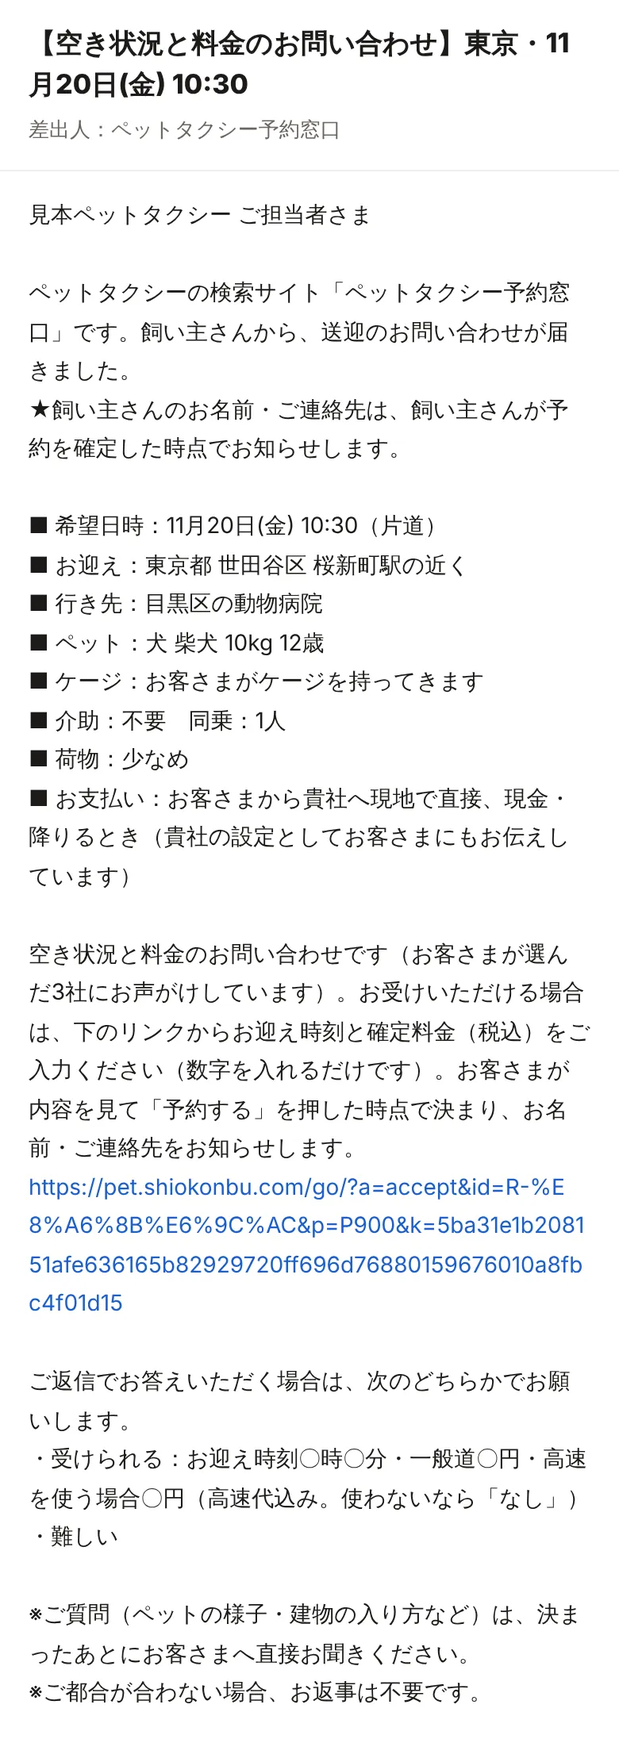
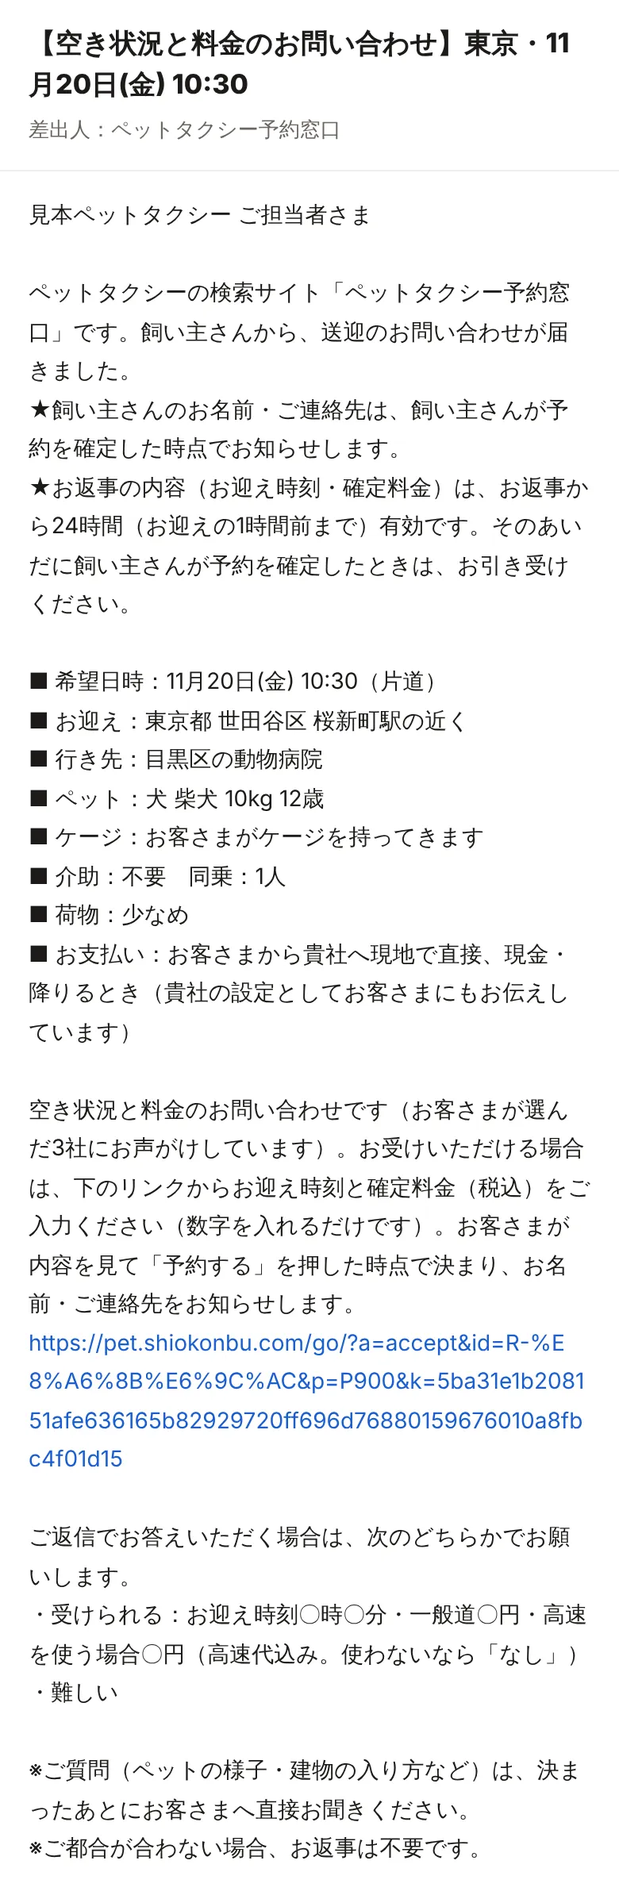
予約できる期限・キャンセルの決まり・消費者契約法に合わせた免責など、ツッコミどころをふさぐ (#121)
- 会社の返事で予約できるのは返事から24時間（お迎えの1時間前まで）。過ぎたら予約できず、もう一度問い合わせる案内
- 予約する前に会社のキャンセルの決まりを見せる（提携先シートに「キャンセル規定」の列）
- 利用規約：軽い過失でも直接・通常の損害は賠償する（全部免責は消費者契約法で無効になるため）、規約の変更は内容と日を前もって知らせる、未成年は保護者の同意
- 提携規約：返事の有効期限のあいだは引き受ける、キャンセル料の決まりを知らせる

Claude-Session: https://claude.ai/code/session_01Tf5d8bNcCb2wuZ9nGXDLSY

diff --git a/partner/terms/index.html b/partner/terms/index.html
@@ -39,7 +39,7 @@
 <main>
 <section class="area-hero"><div class="wrap"><h1>提携規約<small style="display:block;font-size:.95rem;color:var(--o-d)">ペットタクシー会社さま向け</small></h1><p class="lede">当サイトと提携してくださる会社さまとの約束です。お申し込みのあと、この規約をメールでお送りし、同意のお返事をいただいてから提携が始まります。</p></div></section>
 <section><div class="wrap prose terms">
-<h2>第1条（この規約について）</h2><p>この規約は、ペットタクシー予約窓口（以下「当サイト」）と、当サイトと提携してペットの送迎を行う事業者（以下「提携事業者」）との間の約束を定めるものです。</p><p>この規約で使うことばの意味は、次のとおりです。</p><ul><li>「飼い主さん」：当サイトを使ってペットの送迎を問い合わせる方</li><li>「問い合わせ」：飼い主さんが選んだ提携事業者へ、当サイトが空き状況と料金をおたずねするメール</li><li>「お返事」：提携事業者が、お迎え時刻と確定料金を当サイトの画面に入力して送ること</li><li>「予約の確定」：飼い主さんがお返事を見て「この内容で予約する」を押し、当サイトから確定のメールが送られたこと</li><li>「確定料金」：お返事で提携事業者が示した、税込の運賃（高速代・駐車場代などの実費を除きます）</li></ul><h2>第2条（提携の成立）</h2><p>提携を希望する事業者は、当サイトの提携のお申し込みフォームから申し込みます。</p><p>当サイトは、お申し込みの内容と公式サイトなどを確認し、この規約をメールでお送りします。事業者がメールでこの規約に同意すると返信した時点で、提携が成立します。</p><p>当サイトは、確認の結果、提携をお断りすることがあります。その理由はお伝えしないことがあります。</p><h2>第3条（提携事業者のお約束）</h2><p>提携事業者は、次のことをお約束いただきます。</p><ul><li>ペットの送迎に必要な許可・届出・登録（貨物軽自動車運送事業の届出、一般乗用旅客自動車運送事業の許可、第一種動物取扱業の登録など、事業のやり方に応じて必要なもの）を受けていること</li><li>飼い主さんが同乗するときは、法令にしたがうこと。旅客の運送の許可を受けていない場合は、飼い主さんは付き添いとして同乗し、飼い主さんの運賃は受け取らないこと</li><li>送迎中の事故に備えて、対人・対物の保険に入っていること</li><li>道路交通法などの法令と、ペットの安全に気を配って送迎すること</li></ul><p>許可などの状況が変わったときは、すぐに当サイトにお知らせください。</p><h2>第4条（掲載する情報）</h2><p>当サイトは、提携事業者の名前、対応エリア、料金表、営業時間、お支払い方法など、提携事業者からいただいた情報や公式サイトに公開されている情報をもとに、候補として掲載します。</p><p>当サイトは、掲載した料金表から料金の目安を計算し、「確定料金ではありません」と添えて表示します。目安の計算のしかた、候補の並び順、しぼり込みの条件は当サイトが決めます。手数料や掲載料によって並び順を変えることはありません。</p><p>提携事業者は、料金・エリア・営業時間などが変わるときは、事前に当サイトにお知らせください。掲載の内容に誤りを見つけたときも、お知らせください。当サイトはすぐに直します。</p><h2>第5条（問い合わせとお返事）</h2><p>当サイトは、飼い主さんが選んだ提携事業者に、日時・お迎えの場所・行き先・同乗する人数・ペットの情報・料金の目安などをメールでお届けします。この段階では、飼い主さんのお名前と連絡先はお伝えしません。</p><p>提携事業者は、受けられるときは、メールのリンク先の画面でお迎え時刻と確定料金を入力してお返事ください。受けられないときは、お返事はいりません。</p><p>お返事した確定料金は、飼い主さんが予約を決めるための大切な情報です。当日の待ち時間の延長や行き先の変更など、飼い主さんの依頼で内容が変わった場合と、実費を除き、確定料金より高い金額を受け取らないでください。</p><h2>第6条（予約の確定と送迎）</h2><p>飼い主さんが予約を確定すると、当サイトは提携事業者に飼い主さんのお名前と連絡先をメールでお知らせします。ほかの提携事業者には「締め切り」をお知らせします。</p><p>運送の契約は、飼い主さんと提携事業者の間で結ばれます。当サイトは運送の契約の当事者ではありません。打ち合わせ、送迎、運賃のお受け取り、キャンセルの扱いは、提携事業者の約款と規定にしたがって、提携事業者と飼い主さんの間で行ってください。</p><p>確定した予約を提携事業者の都合で取り消すときは、できるだけ早く飼い主さんと当サイトにお知らせください。</p><h2>第7条（飼い主さんの個人情報）</h2><p>提携事業者は、当サイトからお知らせした飼い主さんの個人情報を、その送迎のためだけに使い、法令にしたがって大切に管理してください。</p><p>飼い主さんの同意なく、宣伝のメールを送ったり、ほかの人に渡したりしないでください。</p><p>漏えいなどが起きたとき、または起きたおそれがあるときは、すぐに当サイトにお知らせください。</p><h2>第8条（手数料）</h2><p>提携事業者は、当サイトで予約が確定し、実際に送迎をした1件ごとに、確定料金に、当サイトが提携の成立のときにメールでお知らせする率をかけた金額を、手数料としてお支払いください（消費税を含みます。円未満は切り捨てます）。予約が確定したあとに飼い主さんの依頼で金額が変わったときは、実際に受け取った運賃（実費を除きます）をもとにします。</p><p>次の場合、手数料はいただきません。</p><ul><li>問い合わせを受け取っただけ、またはお返事しただけのとき（選ばれなかったときを含みます）</li><li>キャンセルなどで送迎をしなかったとき。キャンセル料を受け取った場合も、キャンセル料に手数料はかけません</li><li>登録料・月額料金・掲載料（いただきません）</li></ul><p>当サイトは、毎月末で締めて、その月に確定した予約の一覧と手数料の金額を翌月10日ごろまでにメールでお送りします。提携事業者は、送迎しなかった予約や金額の違いがあれば、そのメールへの返信でお知らせください。</p><p>手数料は、翌月末までに当サイトが指定する口座にお振り込みください。振込手数料は提携事業者のご負担とします。</p><p>1か月の手数料の合計が1,000円に満たないときは、その月はご請求せず、翌月以降の手数料とまとめてご請求します。</p><p>手数料をいただき始める日は、当サイトから少なくとも30日前にメールでお知らせします。その日より前に確定した予約には、手数料はかかりません。</p><p>お支払いが期日より遅れたときは、期日の翌日からお支払いの日まで、年14.6%の割合による遅延損害金をあわせてお支払いいただきます。</p><h2>第9条（送迎の報告と確認）</h2><p>提携事業者は、月末の一覧への返信で、送迎をしたか、キャンセルになったか、受け取った金額を、正確に報告しなければなりません。一覧を送った月の末日までに返信がないときは、一覧のとおり送迎したものとみなします。</p><p>当サイトは、送迎のあとに、飼い主さんに直接、送迎があったかどうかを確かめます。また、必要なときは、提携事業者に、運転日報・領収書の控え・キャンセルの連絡の記録など、送迎についての記録を出していただくよう求めることができます。提携事業者は、これに応じなければなりません。</p><p>飼い主さんの答えと提携事業者の報告が違うときは、提携事業者が記録によって送迎しなかったことを示さない限り、送迎したものとして手数料を計算します。</p><p>送迎したのにキャンセルと報告するなど事実と違う報告をしたとき、報告をしなかったとき、または第10条に反したときは、提携事業者は、本来の手数料に加えて、それと同じ額を違約金としてお支払いいただきます。この場合、当サイトは予告なく提携を終えることができ、これを超える損害があるときは、その賠償も求めることができます。</p><h2>第10条（当サイトを通さない取引）</h2><p>当サイトの問い合わせで届いた依頼について、手数料を避ける目的で、予約の確定の前に飼い主さんへ直接連絡したり、当サイトを通さずに予約するよう誘ったりしないでください。</p><p>確定した予約が送迎されないまま（キャンセルと報告された場合を含みます）、確定の日から90日以内に、提携事業者がその予約に代えて同じ飼い主さんのペットを直接送迎したときは、その予約の送迎をしたものとして手数料を計算します。日時や行き先を変えた場合も同じです。</p><p>予約が確定して送迎したあと、飼い主さんがあらためて提携事業者に直接依頼した送迎には、手数料はかかりません。</p><h2>第11条（禁止事項）</h2><ul><li>事実と違う料金・エリア・許可などの情報を伝えること</li><li>飼い主さんやペットへの迷惑行為、不当に高い料金の請求</li><li>当サイトや他の提携事業者の信用を傷つけること</li><li>当サイトの仕組みに不正にアクセスすること、ほかの人に成りすましてお返事すること</li><li>当サイトの許可なく、当サイトの名前を広告などに使ったり、当サイトの公認・推薦を受けているように表示したりすること</li><li>法令や公序良俗に反すること</li></ul><h2>第12条（掲載の停止と提携の終了）</h2><p>提携事業者は、メールでお知らせいただければ、いつでも掲載の一時停止や提携の終了ができます。違約金はありません。</p><p>当サイトは、提携事業者がこの規約に反したとき、飼い主さんからの苦情が続くとき、許可などが確認できなくなったときは、掲載を止めたり、提携を終えたりすることがあります。</p><p>当サイトは、30日前までにメールでお知らせすれば、理由を問わず提携を終えたり、本サービスを終えたりすることができます。この提携は独占ではなく、当サイトはほかの事業者とも提携します。</p><p>掲載の停止や提携の終了の前に確定した予約は、最後まで送迎してください。その予約の手数料は、第8条のとおりお支払いください。</p><h2>第13条（責任の範囲と補償）</h2><p>送迎中の事故、ケガ、ペットの体調の変化、遅れ、物の破損などは、提携事業者の責任と保険で対応してください。</p><p>提携事業者の送迎、法令（許可・届出を含みます）やこの規約への違反がもとで、当サイトが飼い主さんやほかの人から請求や苦情を受けたときは、提携事業者は、自分の責任と費用でこれを解決し、当サイトに生じた損害（弁護士費用を含みます）を補償してください。</p><p>通信の障害、メールの不達や迷惑メールへの振り分けなどにより、問い合わせやお知らせが遅れたり届かなかったりすることがあります。当サイトは、問い合わせの件数や予約の確定をお約束するものではありません。</p><p>当サイトが表示する料金の目安は、提携事業者の料金表などをもとにした概算です。料金の目安と確定料金が違うことについて、当サイトは責任を負いません。</p><p>当サイトの故意または重大な過失による場合を除き、当サイトが提携事業者に負う責任は、その損害が生じた月の前12か月間に当サイトが提携事業者から受け取った手数料の合計額までとします。</p><h2>第14条（秘密の保持）</h2><p>当サイトと提携事業者は、提携を通じて知った相手の営業上の情報（公開されているものを除きます）を、相手の同意なくほかの人に伝えません。提携が終わったあとも同じです。</p><h2>第15条（反社会的勢力の排除）</h2><p>当サイトと提携事業者は、自分が暴力団などの反社会的勢力ではなく、これと関わりがないことをお約束します。これに反したときは、相手は予告なく提携を終えることができます。</p><h2>第16条（規約の変更）</h2><p>当サイトは、この規約を変えることがあります。手数料など大事な内容を変えるときは、変更の日の30日前までに提携事業者にメールでお知らせします。お知らせしたあとも提携を続けた場合は、変更後の規約に同意いただいたものとします。</p><h2>第17条（準拠法・裁判管轄）</h2><p>この規約は日本の法律にしたがって解釈します。提携について争いが生じた場合は、運営者の住所地を管轄する地方裁判所または簡易裁判所を、第一審の専属的合意管轄裁判所とします。</p>
+<h2>第1条（この規約について）</h2><p>この規約は、ペットタクシー予約窓口（以下「当サイト」）と、当サイトと提携してペットの送迎を行う事業者（以下「提携事業者」）との間の約束を定めるものです。</p><p>この規約で使うことばの意味は、次のとおりです。</p><ul><li>「飼い主さん」：当サイトを使ってペットの送迎を問い合わせる方</li><li>「問い合わせ」：飼い主さんが選んだ提携事業者へ、当サイトが空き状況と料金をおたずねするメール</li><li>「お返事」：提携事業者が、お迎え時刻と確定料金を当サイトの画面に入力して送ること</li><li>「予約の確定」：飼い主さんがお返事を見て「この内容で予約する」を押し、当サイトから確定のメールが送られたこと</li><li>「確定料金」：お返事で提携事業者が示した、税込の運賃（高速代・駐車場代などの実費を除きます）</li></ul><h2>第2条（提携の成立）</h2><p>提携を希望する事業者は、当サイトの提携のお申し込みフォームから申し込みます。</p><p>当サイトは、お申し込みの内容と公式サイトなどを確認し、この規約をメールでお送りします。事業者がメールでこの規約に同意すると返信した時点で、提携が成立します。</p><p>当サイトは、確認の結果、提携をお断りすることがあります。その理由はお伝えしないことがあります。</p><h2>第3条（提携事業者のお約束）</h2><p>提携事業者は、次のことをお約束いただきます。</p><ul><li>ペットの送迎に必要な許可・届出・登録（貨物軽自動車運送事業の届出、一般乗用旅客自動車運送事業の許可、第一種動物取扱業の登録など、事業のやり方に応じて必要なもの）を受けていること</li><li>飼い主さんが同乗するときは、法令にしたがうこと。旅客の運送の許可を受けていない場合は、飼い主さんは付き添いとして同乗し、飼い主さんの運賃は受け取らないこと</li><li>送迎中の事故に備えて、対人・対物の保険に入っていること</li><li>道路交通法などの法令と、ペットの安全に気を配って送迎すること</li></ul><p>許可などの状況が変わったときは、すぐに当サイトにお知らせください。</p><h2>第4条（掲載する情報）</h2><p>当サイトは、提携事業者の名前、対応エリア、料金表、営業時間、お支払い方法など、提携事業者からいただいた情報や公式サイトに公開されている情報をもとに、候補として掲載します。</p><p>当サイトは、掲載した料金表から料金の目安を計算し、「確定料金ではありません」と添えて表示します。目安の計算のしかた、候補の並び順、しぼり込みの条件は当サイトが決めます。手数料や掲載料によって並び順を変えることはありません。</p><p>提携事業者は、料金・エリア・営業時間などが変わるときは、事前に当サイトにお知らせください。掲載の内容に誤りを見つけたときも、お知らせください。当サイトはすぐに直します。</p><h2>第5条（問い合わせとお返事）</h2><p>当サイトは、飼い主さんが選んだ提携事業者に、日時・お迎えの場所・行き先・同乗する人数・ペットの情報・料金の目安などをメールでお届けします。この段階では、飼い主さんのお名前と連絡先はお伝えしません。</p><p>提携事業者は、受けられるときは、メールのリンク先の画面でお迎え時刻と確定料金を入力してお返事ください。受けられないときは、お返事はいりません。</p><p>お返事した確定料金は、飼い主さんが予約を決めるための大切な情報です。当日の待ち時間の延長や行き先の変更など、飼い主さんの依頼で内容が変わった場合と、実費を除き、確定料金より高い金額を受け取らないでください。</p><p>お返事の内容（お迎え時刻と確定料金）は、お返事から24時間（お迎えの1時間前を過ぎるときはその時点）まで有効です。そのあいだに飼い主さんが予約を確定したときは、お引き受けください。受けられなくなったときは、すぐに当サイトにお知らせください。</p><p>キャンセル料などの決まりがあるときは、お申し込みのときかお返事の一言でお知らせください。当サイトは、予約する前の飼い主さんにお見せします。</p><h2>第6条（予約の確定と送迎）</h2><p>飼い主さんが予約を確定すると、当サイトは提携事業者に飼い主さんのお名前と連絡先をメールでお知らせします。ほかの提携事業者には「締め切り」をお知らせします。</p><p>運送の契約は、飼い主さんと提携事業者の間で結ばれます。当サイトは運送の契約の当事者ではありません。打ち合わせ、送迎、運賃のお受け取り、キャンセルの扱いは、提携事業者の約款と規定にしたがって、提携事業者と飼い主さんの間で行ってください。</p><p>確定した予約を提携事業者の都合で取り消すときは、できるだけ早く飼い主さんと当サイトにお知らせください。</p><h2>第7条（飼い主さんの個人情報）</h2><p>提携事業者は、当サイトからお知らせした飼い主さんの個人情報を、その送迎のためだけに使い、法令にしたがって大切に管理してください。</p><p>飼い主さんの同意なく、宣伝のメールを送ったり、ほかの人に渡したりしないでください。</p><p>漏えいなどが起きたとき、または起きたおそれがあるときは、すぐに当サイトにお知らせください。</p><h2>第8条（手数料）</h2><p>提携事業者は、当サイトで予約が確定し、実際に送迎をした1件ごとに、確定料金に、当サイトが提携の成立のときにメールでお知らせする率をかけた金額を、手数料としてお支払いください（消費税を含みます。円未満は切り捨てます）。予約が確定したあとに飼い主さんの依頼で金額が変わったときは、実際に受け取った運賃（実費を除きます）をもとにします。</p><p>次の場合、手数料はいただきません。</p><ul><li>問い合わせを受け取っただけ、またはお返事しただけのとき（選ばれなかったときを含みます）</li><li>キャンセルなどで送迎をしなかったとき。キャンセル料を受け取った場合も、キャンセル料に手数料はかけません</li><li>登録料・月額料金・掲載料（いただきません）</li></ul><p>当サイトは、毎月末で締めて、その月に確定した予約の一覧と手数料の金額を翌月10日ごろまでにメールでお送りします。提携事業者は、送迎しなかった予約や金額の違いがあれば、そのメールへの返信でお知らせください。</p><p>手数料は、翌月末までに当サイトが指定する口座にお振り込みください。振込手数料は提携事業者のご負担とします。</p><p>1か月の手数料の合計が1,000円に満たないときは、その月はご請求せず、翌月以降の手数料とまとめてご請求します。</p><p>手数料をいただき始める日は、当サイトから少なくとも30日前にメールでお知らせします。その日より前に確定した予約には、手数料はかかりません。</p><p>お支払いが期日より遅れたときは、期日の翌日からお支払いの日まで、年14.6%の割合による遅延損害金をあわせてお支払いいただきます。</p><h2>第9条（送迎の報告と確認）</h2><p>提携事業者は、月末の一覧への返信で、送迎をしたか、キャンセルになったか、受け取った金額を、正確に報告しなければなりません。一覧を送った月の末日までに返信がないときは、一覧のとおり送迎したものとみなします。</p><p>当サイトは、送迎のあとに、飼い主さんに直接、送迎があったかどうかを確かめます。また、必要なときは、提携事業者に、運転日報・領収書の控え・キャンセルの連絡の記録など、送迎についての記録を出していただくよう求めることができます。提携事業者は、これに応じなければなりません。</p><p>飼い主さんの答えと提携事業者の報告が違うときは、提携事業者が記録によって送迎しなかったことを示さない限り、送迎したものとして手数料を計算します。</p><p>送迎したのにキャンセルと報告するなど事実と違う報告をしたとき、報告をしなかったとき、または第10条に反したときは、提携事業者は、本来の手数料に加えて、それと同じ額を違約金としてお支払いいただきます。この場合、当サイトは予告なく提携を終えることができ、これを超える損害があるときは、その賠償も求めることができます。</p><h2>第10条（当サイトを通さない取引）</h2><p>当サイトの問い合わせで届いた依頼について、手数料を避ける目的で、予約の確定の前に飼い主さんへ直接連絡したり、当サイトを通さずに予約するよう誘ったりしないでください。</p><p>確定した予約が送迎されないまま（キャンセルと報告された場合を含みます）、確定の日から90日以内に、提携事業者がその予約に代えて同じ飼い主さんのペットを直接送迎したときは、その予約の送迎をしたものとして手数料を計算します。日時や行き先を変えた場合も同じです。</p><p>予約が確定して送迎したあと、飼い主さんがあらためて提携事業者に直接依頼した送迎には、手数料はかかりません。</p><h2>第11条（禁止事項）</h2><ul><li>事実と違う料金・エリア・許可などの情報を伝えること</li><li>飼い主さんやペットへの迷惑行為、不当に高い料金の請求</li><li>当サイトや他の提携事業者の信用を傷つけること</li><li>当サイトの仕組みに不正にアクセスすること、ほかの人に成りすましてお返事すること</li><li>当サイトの許可なく、当サイトの名前を広告などに使ったり、当サイトの公認・推薦を受けているように表示したりすること</li><li>法令や公序良俗に反すること</li></ul><h2>第12条（掲載の停止と提携の終了）</h2><p>提携事業者は、メールでお知らせいただければ、いつでも掲載の一時停止や提携の終了ができます。違約金はありません。</p><p>当サイトは、提携事業者がこの規約に反したとき、飼い主さんからの苦情が続くとき、許可などが確認できなくなったときは、掲載を止めたり、提携を終えたりすることがあります。</p><p>当サイトは、30日前までにメールでお知らせすれば、理由を問わず提携を終えたり、本サービスを終えたりすることができます。この提携は独占ではなく、当サイトはほかの事業者とも提携します。</p><p>掲載の停止や提携の終了の前に確定した予約は、最後まで送迎してください。その予約の手数料は、第8条のとおりお支払いください。</p><h2>第13条（責任の範囲と補償）</h2><p>送迎中の事故、ケガ、ペットの体調の変化、遅れ、物の破損などは、提携事業者の責任と保険で対応してください。</p><p>提携事業者の送迎、法令（許可・届出を含みます）やこの規約への違反がもとで、当サイトが飼い主さんやほかの人から請求や苦情を受けたときは、提携事業者は、自分の責任と費用でこれを解決し、当サイトに生じた損害（弁護士費用を含みます）を補償してください。</p><p>通信の障害、メールの不達や迷惑メールへの振り分けなどにより、問い合わせやお知らせが遅れたり届かなかったりすることがあります。当サイトは、問い合わせの件数や予約の確定をお約束するものではありません。</p><p>当サイトが表示する料金の目安は、提携事業者の料金表などをもとにした概算です。料金の目安と確定料金が違うことについて、当サイトは責任を負いません。</p><p>当サイトの故意または重大な過失による場合を除き、当サイトが提携事業者に負う責任は、その損害が生じた月の前12か月間に当サイトが提携事業者から受け取った手数料の合計額までとします。</p><h2>第14条（秘密の保持）</h2><p>当サイトと提携事業者は、提携を通じて知った相手の営業上の情報（公開されているものを除きます）を、相手の同意なくほかの人に伝えません。提携が終わったあとも同じです。</p><h2>第15条（反社会的勢力の排除）</h2><p>当サイトと提携事業者は、自分が暴力団などの反社会的勢力ではなく、これと関わりがないことをお約束します。これに反したときは、相手は予告なく提携を終えることができます。</p><h2>第16条（規約の変更）</h2><p>当サイトは、この規約を変えることがあります。手数料など大事な内容を変えるときは、変更の日の30日前までに提携事業者にメールでお知らせします。お知らせしたあとも提携を続けた場合は、変更後の規約に同意いただいたものとします。</p><h2>第17条（準拠法・裁判管轄）</h2><p>この規約は日本の法律にしたがって解釈します。提携について争いが生じた場合は、運営者の住所地を管轄する地方裁判所または簡易裁判所を、第一審の専属的合意管轄裁判所とします。</p>
 <p class="small">2026年11月1日 制定</p>
 <p><a href="/partner/">提携のご案内にもどる</a></p>
 </div></section>

diff --git a/terms/index.html b/terms/index.html
@@ -39,7 +39,7 @@
 <main>
 <section class="area-hero"><div class="wrap"><h1>利用規約</h1><p class="lede">ペットタクシー予約窓口をご利用いただく前に、お読みください。</p></div></section>
 <section><div class="wrap prose terms">
-<h2>第1条（この規約について）</h2><p>この規約は、ペットタクシー予約窓口（以下「当サイト」）が提供する、ペットタクシー会社をさがして空き状況と料金を問い合わせられるサービス（以下「本サービス」）の利用条件を定めるものです。</p><p>本サービスを利用した方（以下「利用者」）は、この規約と、トップページの「キャンセルについて」「ご利用にあたって」「個人情報の取り扱い」に同意したものとみなします。</p><h2>第2条（本サービスの内容）</h2><p>本サービスは、利用者が入力した条件をもとに、ペットの送迎を行うタクシー事業者（以下「事業者」）の候補と料金の目安を表示し、利用者が選んだ事業者に空き状況と料金を問い合わせ、事業者の返事をお知らせし、利用者が予約を決めたことを事業者にお伝えするものです。</p><p>当サイトは、利用者または事業者の代理人として、運送の契約を結んだり、契約の内容を決めたりするものではありません。運送の条件と料金は事業者が決め、予約するかどうかは利用者が決めます。</p><p>当サイトは送迎を行いません。送迎は事業者が行い、運送契約は利用者と事業者の間で結ばれます。当サイトは運送契約の当事者ではありません。</p><p>候補の表示では問い合わせは送信されません。事業者のカードから問い合わせても、その時点では予約は成立しません。事業者から届いた空き状況と確定料金を見て、利用者が「この内容で予約する」を押し（2社以上に問い合わせたときは1社を選び）、当サイトから「ご予約が確定しました」のメールが届いた時点で予約成立とします。</p><p>空き状況により、選んだ事業者が空いていない場合があります。選んでいない事業者に依頼を広げることはありません。その場合はメールでお知らせし、料金は一切かかりません。</p><h2>第3条（料金とお支払い）</h2><p>当サイトの利用は無料です。利用料をいただくことになった場合は、あらかじめこのページなどでお知らせし、それ以前のご依頼にさかのぼって請求することはありません。</p><p>このページやフォームに出る料金と距離・所要時間は目安で、実際の金額や道のり、空き状況を保証するものではありません。料金表が未登録の事業者は「料金はお見積もり」と表示します。料金は、問い合わせた事業者が空き状況と一緒に確定料金としてお知らせします。</p><p>運賃、高速代、駐車場代、待ち時間の料金などは、事業者の定めにしたがって、利用者が事業者へ直接お支払いください。</p><h2>第4条（キャンセル）</h2><p>予約が確定する前は、いつでも無料で取り消せます。当サイトがキャンセル料をいただくことはありません。</p><p>予約が確定したあとのキャンセルには、事業者のキャンセル規定が適用されます。</p><h2>第5条（利用者のお願い）</h2><p>利用者は、お迎えの場所・日時・ペットの種類・体重・健康状態・性格など、送迎に必要な情報を正確にお知らせください。情報が実際と違う場合、事業者が送迎をお断りすることがあります。</p><p>ペットの体調が急に悪くなるおそれがある場合や、人やほかの動物にかみつくおそれがある場合は、メモ欄に書いてください。</p><p>送迎中は、事業者の約款やドライバーの案内にしたがってください。</p><h2>第6条（禁止事項）</h2><ul><li>事実と違う内容や、他人になりすましたご依頼</li><li>いたずらや、乗るつもりのないご依頼、連絡なしの不乗車をくり返すこと</li><li>事業者やほかの利用者、当サイトへの迷惑行為、ひぼう中傷</li><li>本サービスの仕組みに不正にアクセスしたり、大量の送信で運営を妨げたりすること</li><li>当サイトの文章・画像・料金の目安などのデータを、許可なく転載したり、機械で大量に取り出したりすること</li><li>法令や公序良俗に反すること</li></ul><p>これらにあたると当サイトが判断した場合、ご依頼をお断りしたり、今後のご利用をお断りしたりすることがあります。</p><h2>第7条（責任の範囲）</h2><p>送迎中の事故、ケガ、ペットの体調の変化、遅れ、忘れ物、持ち物の破損などは、運送契約にもとづき事業者の約款と保険によって対応されます。当サイトは、事業者が行う送迎について責任を負いません。</p><p>本サービスは救急や医療のサービスではありません。ペットの急な体調不良で一刻を争うときは、まず動物病院にご相談ください。</p><p>通信の障害、メールの不達や迷惑メールへの振り分け、地図や道のりのデータの誤りなどにより、ご連絡が遅れたり届かなかったりすることがあります。</p><p>当サイトに載せている事業者の情報、料金の目安、口コミ、緊急のときの連絡先、ガイドの内容は、確認した時点のものです。当サイトは、その正確さや最新であることを保証しません。ご利用の前に、事業者や病院の公式サイトなどでご確認ください。</p><p>当サイトからリンクしているほかのサイトの内容や、そのサイトで起きたことについて、当サイトは責任を負いません。</p><p>当サイトの故意または重大な過失による場合を除き、本サービスの利用によって利用者に生じた損害について、当サイトは責任を負いません。当サイトが責任を負う場合でも、利用者に直接かつ通常生じた損害に限ります。</p><h2>第8条（サービスの変更・休止・終了）</h2><p>当サイトは、あらかじめお知らせすることなく、本サービスの内容を変えたり、休止・終了したりすることがあります。すでに予約が確定しているご依頼には、できるかぎり影響が出ないようにします。</p><h2>第9条（個人情報）</h2><p>個人情報は、トップページの<a href="/#privacy">個人情報の取り扱い</a>にしたがって取り扱います。</p><h2>第10条（規約の変更）</h2><p>当サイトは、必要に応じてこの規約を変更することがあります。変更したときはこのページでお知らせし、お知らせしたあとのご利用には変更後の規約が適用されます。</p><h2>第11条（準拠法・裁判管轄）</h2><p>この規約は日本の法律にしたがって解釈します。本サービスについて争いが生じた場合は、運営者の住所地を管轄する地方裁判所または簡易裁判所を、第一審の専属的合意管轄裁判所とします。</p>
+<h2>第1条（この規約について）</h2><p>この規約は、ペットタクシー予約窓口（以下「当サイト」）が提供する、ペットタクシー会社をさがして空き状況と料金を問い合わせられるサービス（以下「本サービス」）の利用条件を定めるものです。</p><p>本サービスを利用した方（以下「利用者」）は、この規約と、トップページの「キャンセルについて」「ご利用にあたって」「個人情報の取り扱い」に同意したものとみなします。</p><p>未成年の方は、保護者の同意を得てからご利用ください。</p><h2>第2条（本サービスの内容）</h2><p>本サービスは、利用者が入力した条件をもとに、ペットの送迎を行うタクシー事業者（以下「事業者」）の候補と料金の目安を表示し、利用者が選んだ事業者に空き状況と料金を問い合わせ、事業者の返事をお知らせし、利用者が予約を決めたことを事業者にお伝えするものです。</p><p>当サイトは、利用者または事業者の代理人として、運送の契約を結んだり、契約の内容を決めたりするものではありません。運送の条件と料金は事業者が決め、予約するかどうかは利用者が決めます。</p><p>当サイトは送迎を行いません。送迎は事業者が行い、運送契約は利用者と事業者の間で結ばれます。当サイトは運送契約の当事者ではありません。</p><p>候補の表示では問い合わせは送信されません。事業者のカードから問い合わせても、その時点では予約は成立しません。事業者から届いた空き状況と確定料金を見て、利用者が「この内容で予約する」を押し（2社以上に問い合わせたときは1社を選び）、当サイトから「ご予約が確定しました」のメールが届いた時点で予約成立とします。</p><p>事業者の返事で予約できるのは、返事から24時間（お迎えの1時間前を過ぎるときはその時点）までです。期限を過ぎると事業者の空き状況が変わっている場合があるため、その内容では予約できません。</p><p>空き状況により、選んだ事業者が空いていない場合があります。選んでいない事業者に依頼を広げることはありません。その場合はメールでお知らせし、料金は一切かかりません。</p><h2>第3条（料金とお支払い）</h2><p>当サイトの利用は無料です。利用料をいただくことになった場合は、あらかじめこのページなどでお知らせし、それ以前のご依頼にさかのぼって請求することはありません。</p><p>このページやフォームに出る料金と距離・所要時間は目安で、実際の金額や道のり、空き状況を保証するものではありません。料金表が未登録の事業者は「料金はお見積もり」と表示します。料金は、問い合わせた事業者が空き状況と一緒に確定料金としてお知らせします。</p><p>運賃、高速代、駐車場代、待ち時間の料金などは、事業者の定めにしたがって、利用者が事業者へ直接お支払いください。</p><h2>第4条（キャンセル）</h2><p>予約が確定する前は、いつでも無料で取り消せます。当サイトがキャンセル料をいただくことはありません。</p><p>予約が確定したあとのキャンセルには、事業者のキャンセル規定が適用されます。キャンセル料がかかるかどうかは、予約する前に、返事のメールや事業者の公式サイトなどでご確認ください。</p><h2>第5条（利用者のお願い）</h2><p>利用者は、お迎えの場所・日時・ペットの種類・体重・健康状態・性格など、送迎に必要な情報を正確にお知らせください。情報が実際と違う場合、事業者が送迎をお断りすることがあります。</p><p>ペットの体調が急に悪くなるおそれがある場合や、人やほかの動物にかみつくおそれがある場合は、メモ欄に書いてください。</p><p>送迎中は、事業者の約款やドライバーの案内にしたがってください。</p><h2>第6条（禁止事項）</h2><ul><li>事実と違う内容や、他人になりすましたご依頼</li><li>いたずらや、乗るつもりのないご依頼、連絡なしの不乗車をくり返すこと</li><li>事業者やほかの利用者、当サイトへの迷惑行為、ひぼう中傷</li><li>本サービスの仕組みに不正にアクセスしたり、大量の送信で運営を妨げたりすること</li><li>当サイトの文章・画像・料金の目安などのデータを、許可なく転載したり、機械で大量に取り出したりすること</li><li>法令や公序良俗に反すること</li></ul><p>これらにあたると当サイトが判断した場合、ご依頼をお断りしたり、今後のご利用をお断りしたりすることがあります。</p><h2>第7条（責任の範囲）</h2><p>送迎中の事故、ケガ、ペットの体調の変化、遅れ、忘れ物、持ち物の破損などは、運送契約にもとづき事業者の約款と保険によって対応されます。当サイトは、事業者が行う送迎について責任を負いません。</p><p>本サービスは救急や医療のサービスではありません。ペットの急な体調不良で一刻を争うときは、まず動物病院にご相談ください。</p><p>通信の障害、メールの不達や迷惑メールへの振り分け、地図や道のりのデータの誤りなどにより、ご連絡が遅れたり届かなかったりすることがあります。</p><p>当サイトに載せている事業者の情報、料金の目安、口コミ、緊急のときの連絡先、ガイドの内容は、確認した時点のものです。当サイトは、その正確さや最新であることを保証しません。ご利用の前に、事業者や病院の公式サイトなどでご確認ください。</p><p>当サイトからリンクしているほかのサイトの内容や、そのサイトで起きたことについて、当サイトは責任を負いません。</p><p>本サービスの利用によって利用者に生じた損害について、当サイトは、当サイトの故意または重大な過失による場合はその損害を賠償し、それ以外の過失（軽い過失）による場合は、利用者に直接かつ通常生じた損害に限って賠償します。</p><h2>第8条（サービスの変更・休止・終了）</h2><p>当サイトは、あらかじめお知らせすることなく、本サービスの内容を変えたり、休止・終了したりすることがあります。すでに予約が確定しているご依頼には、できるかぎり影響が出ないようにします。</p><h2>第9条（個人情報）</h2><p>個人情報は、トップページの<a href="/#privacy">個人情報の取り扱い</a>にしたがって取り扱います。</p><h2>第10条（規約の変更）</h2><p>当サイトは、利用者の一般の利益に合うとき、または変更の必要性・内容が合理的なときに、この規約を変更することがあります。変更するときは、変更の内容と変更の日を、変更の日より前にこのページでお知らせします。変更の日よりあとのご利用には、変更後の規約が適用されます。すでに予約が確定しているご依頼は、予約のときの規約によります。</p><h2>第11条（準拠法・裁判管轄）</h2><p>この規約は日本の法律にしたがって解釈します。本サービスについて争いが生じた場合は、運営者の住所地を管轄する地方裁判所または簡易裁判所を、第一審の専属的合意管轄裁判所とします。</p>
 <p class="small">2026年10月30日 制定・2026年11月1日 改定</p>
 </div></section>
 </main>

diff --git a/tools/terms.py b/tools/terms.py
@@ -4,12 +4,14 @@ TERMS = [
  ("第1条（この規約について）", [
   "この規約は、ペットタクシー予約窓口（以下「当サイト」）が提供する、ペットタクシー会社をさがして空き状況と料金を問い合わせられるサービス（以下「本サービス」）の利用条件を定めるものです。",
   "本サービスを利用した方（以下「利用者」）は、この規約と、トップページの「キャンセルについて」「ご利用にあたって」「個人情報の取り扱い」に同意したものとみなします。",
+  "未成年の方は、保護者の同意を得てからご利用ください。",
  ]),
  ("第2条（本サービスの内容）", [
   "本サービスは、利用者が入力した条件をもとに、ペットの送迎を行うタクシー事業者（以下「事業者」）の候補と料金の目安を表示し、利用者が選んだ事業者に空き状況と料金を問い合わせ、事業者の返事をお知らせし、利用者が予約を決めたことを事業者にお伝えするものです。",
   "当サイトは、利用者または事業者の代理人として、運送の契約を結んだり、契約の内容を決めたりするものではありません。運送の条件と料金は事業者が決め、予約するかどうかは利用者が決めます。",
   "当サイトは送迎を行いません。送迎は事業者が行い、運送契約は利用者と事業者の間で結ばれます。当サイトは運送契約の当事者ではありません。",
   "候補の表示では問い合わせは送信されません。事業者のカードから問い合わせても、その時点では予約は成立しません。事業者から届いた空き状況と確定料金を見て、利用者が「この内容で予約する」を押し（2社以上に問い合わせたときは1社を選び）、当サイトから「ご予約が確定しました」のメールが届いた時点で予約成立とします。",
+  "事業者の返事で予約できるのは、返事から24時間（お迎えの1時間前を過ぎるときはその時点）までです。期限を過ぎると事業者の空き状況が変わっている場合があるため、その内容では予約できません。",
   "空き状況により、選んだ事業者が空いていない場合があります。選んでいない事業者に依頼を広げることはありません。その場合はメールでお知らせし、料金は一切かかりません。",
  ]),
  ("第3条（料金とお支払い）", [
@@ -19,7 +21,7 @@ TERMS = [
  ]),
  ("第4条（キャンセル）", [
   "予約が確定する前は、いつでも無料で取り消せます。当サイトがキャンセル料をいただくことはありません。",
-  "予約が確定したあとのキャンセルには、事業者のキャンセル規定が適用されます。",
+  "予約が確定したあとのキャンセルには、事業者のキャンセル規定が適用されます。キャンセル料がかかるかどうかは、予約する前に、返事のメールや事業者の公式サイトなどでご確認ください。",
  ]),
  ("第5条（利用者のお願い）", [
   "利用者は、お迎えの場所・日時・ペットの種類・体重・健康状態・性格など、送迎に必要な情報を正確にお知らせください。情報が実際と違う場合、事業者が送迎をお断りすることがあります。",
@@ -41,7 +43,7 @@ TERMS = [
   "通信の障害、メールの不達や迷惑メールへの振り分け、地図や道のりのデータの誤りなどにより、ご連絡が遅れたり届かなかったりすることがあります。",
   "当サイトに載せている事業者の情報、料金の目安、口コミ、緊急のときの連絡先、ガイドの内容は、確認した時点のものです。当サイトは、その正確さや最新であることを保証しません。ご利用の前に、事業者や病院の公式サイトなどでご確認ください。",
   "当サイトからリンクしているほかのサイトの内容や、そのサイトで起きたことについて、当サイトは責任を負いません。",
-  "当サイトの故意または重大な過失による場合を除き、本サービスの利用によって利用者に生じた損害について、当サイトは責任を負いません。当サイトが責任を負う場合でも、利用者に直接かつ通常生じた損害に限ります。",
+  "本サービスの利用によって利用者に生じた損害について、当サイトは、当サイトの故意または重大な過失による場合はその損害を賠償し、それ以外の過失（軽い過失）による場合は、利用者に直接かつ通常生じた損害に限って賠償します。",
  ]),
  ("第8条（サービスの変更・休止・終了）", [
   "当サイトは、あらかじめお知らせすることなく、本サービスの内容を変えたり、休止・終了したりすることがあります。すでに予約が確定しているご依頼には、できるかぎり影響が出ないようにします。",
@@ -50,7 +52,7 @@ TERMS = [
   ("html", '個人情報は、トップページの<a href="/#privacy">個人情報の取り扱い</a>にしたがって取り扱います。'),
  ]),
  ("第10条（規約の変更）", [
-  "当サイトは、必要に応じてこの規約を変更することがあります。変更したときはこのページでお知らせし、お知らせしたあとのご利用には変更後の規約が適用されます。",
+  "当サイトは、利用者の一般の利益に合うとき、または変更の必要性・内容が合理的なときに、この規約を変更することがあります。変更するときは、変更の内容と変更の日を、変更の日より前にこのページでお知らせします。変更の日よりあとのご利用には、変更後の規約が適用されます。すでに予約が確定しているご依頼は、予約のときの規約によります。",
  ]),
  ("第11条（準拠法・裁判管轄）", [
   "この規約は日本の法律にしたがって解釈します。本サービスについて争いが生じた場合は、運営者の住所地を管轄する地方裁判所または簡易裁判所を、第一審の専属的合意管轄裁判所とします。",

diff --git a/tools/partner_terms.py b/tools/partner_terms.py
@@ -33,6 +33,8 @@ PTERMS = [
   "当サイトは、飼い主さんが選んだ提携事業者に、日時・お迎えの場所・行き先・同乗する人数・ペットの情報・料金の目安などをメールでお届けします。この段階では、飼い主さんのお名前と連絡先はお伝えしません。",
   "提携事業者は、受けられるときは、メールのリンク先の画面でお迎え時刻と確定料金を入力してお返事ください。受けられないときは、お返事はいりません。",
   "お返事した確定料金は、飼い主さんが予約を決めるための大切な情報です。当日の待ち時間の延長や行き先の変更など、飼い主さんの依頼で内容が変わった場合と、実費を除き、確定料金より高い金額を受け取らないでください。",
+  "お返事の内容（お迎え時刻と確定料金）は、お返事から24時間（お迎えの1時間前を過ぎるときはその時点）まで有効です。そのあいだに飼い主さんが予約を確定したときは、お引き受けください。受けられなくなったときは、すぐに当サイトにお知らせください。",
+  "キャンセル料などの決まりがあるときは、お申し込みのときかお返事の一言でお知らせください。当サイトは、予約する前の飼い主さんにお見せします。",
  ]),
  ("第6条（予約の確定と送迎）", [
   "飼い主さんが予約を確定すると、当サイトは提携事業者に飼い主さんのお名前と連絡先をメールでお知らせします。ほかの提携事業者には「締め切り」をお知らせします。",
